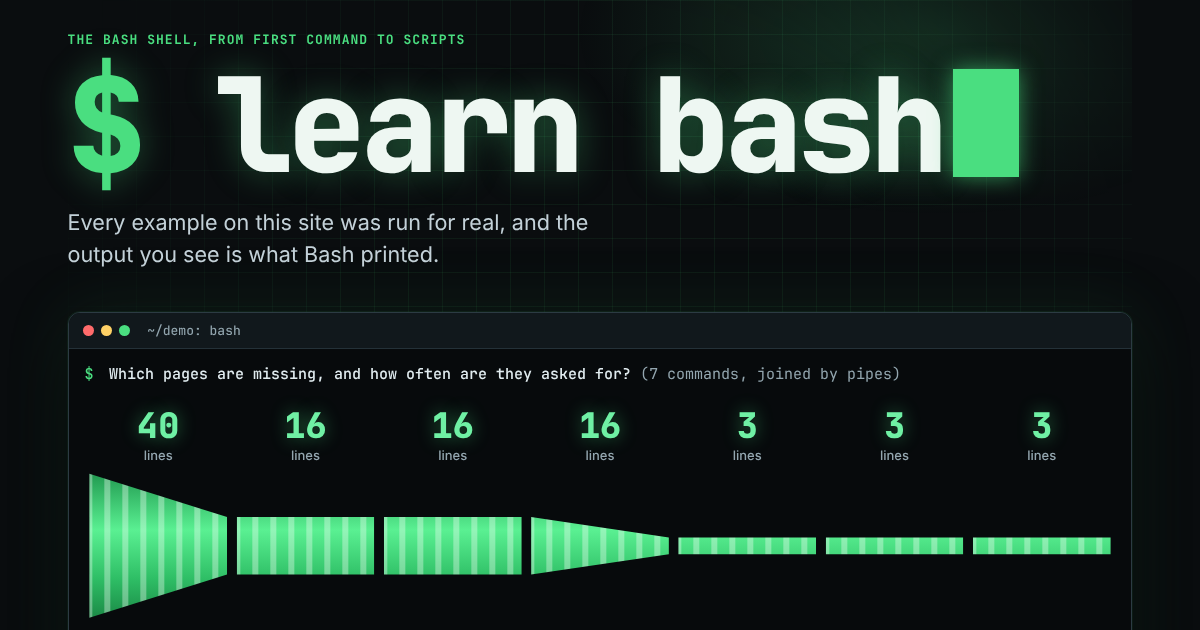
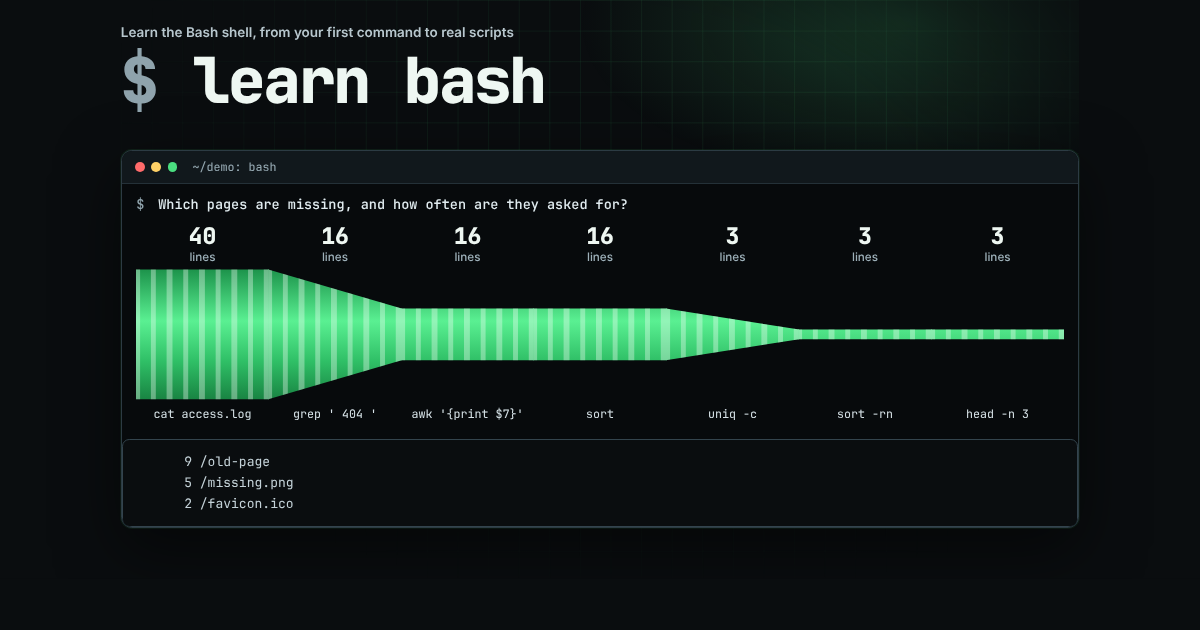
Landing round 2: the pipe is the hero (one continuous pipe at exact scale, dark poster with the header, rationed colour), print and zoom fixes, matching social card, site.json for absolute URLs, DESIGN-LOG
Claude-Session: https://claude.ai/code/session_01Sp4uVW5FB42KZBSPx1UGHC

diff --git a/index.html b/index.html
@@ -10,27 +10,30 @@
 <link rel="icon" href="favicon.svg" type="image/svg+xml">
 <link rel="stylesheet" href="styles.css">
 </head>
-<body>
+<body class="home">
 <a class="skip" href="#main">Skip to the content</a>
 <header class="mast">
-  <a class="brand" href="index.html"><span class="ps" aria-hidden="true">$</span> learn-bash<span class="cur" aria-hidden="true">_</span></a>
+  <a class="brand" href="index.html"><span class="ps" aria-hidden="true">$</span> learn-bash</a>
   <nav aria-label="Pages"><a href="basics.html">Basics</a><a href="commands.html">Commands</a><a href="scripting.html">Scripts</a><a href="advanced.html">Advanced</a><a href="explain.html">Explain</a></nav>
 </header>
 <main id="main">
 
 <section class="hero hero-dark" aria-labelledby="h1">
-  <p class="kicker">The Bash shell, from first command to scripts</p>
-  <h1 id="h1"><span class="ps" aria-hidden="true">$ </span>learn bash<span class="blk" aria-hidden="true"></span></h1>
-  <p class="lede">Every example on this site was run for real, and the output you see is what Bash printed.</p>
-  <p class="cta"><a class="btn" href="basics.html">Start with the basics</a><a class="btn ghost" href="explain.html">Explain a command</a></p>
+  <div class="herohead">
+    <div class="ht"><p class="kicker">Learn the Bash shell, from your first command to real scripts</p>
+    <h1 id="h1"><span class="ps" aria-hidden="true">$ </span>learn bash<span class="blk" aria-hidden="true"></span></h1></div>
+    <div class="hc"><p class="lede">Every example on this site was run for real, and the output you see is what Bash printed.</p>
+    <p class="cta"><a class="btn" href="basics.html">Start with the basics</a><a class="btn ghost" href="explain.html">Explain a command</a></p></div>
+  </div>
   <figure class="win">
     <div class="winbar" aria-hidden="true"><i></i><i></i><i></i><span>~/demo: bash</span></div>
-    <p class="winq"><span class="ps" aria-hidden="true">$</span> Which pages are missing, and how often are they asked for? <span class="muted">(7 commands, joined by pipes)</span></p>
-    <ol class="funnel" aria-label="The pipeline, stage by stage; the number is how many lines come out of each stage"><li class="fs" style="--a:120;--b:48"><span class="fn">40<small>lines</small></span><span class="fp" aria-hidden="true"></span><code class="fc">cat access.log</code></li><li class="fs" style="--a:48;--b:48"><span class="fn">16<small>lines</small></span><span class="fp" aria-hidden="true"></span><code class="fc">grep &#x27; 404 &#x27;</code></li><li class="fs" style="--a:48;--b:48"><span class="fn">16<small>lines</small></span><span class="fp" aria-hidden="true"></span><code class="fc">awk &#x27;{print $7}&#x27;</code></li><li class="fs" style="--a:48;--b:14"><span class="fn">16<small>lines</small></span><span class="fp" aria-hidden="true"></span><code class="fc">sort</code></li><li class="fs" style="--a:14;--b:14"><span class="fn">3<small>lines</small></span><span class="fp" aria-hidden="true"></span><code class="fc">uniq -c</code></li><li class="fs" style="--a:14;--b:14"><span class="fn">3<small>lines</small></span><span class="fp" aria-hidden="true"></span><code class="fc">sort -rn</code></li><li class="fs" style="--a:14;--b:14"><span class="fn">3<small>lines</small></span><span class="fp" aria-hidden="true"></span><code class="fc">head -n 3</code></li></ol>
+    <p class="winq"><span class="ps" aria-hidden="true">$</span> Which pages are missing, and how often are they asked for? <span class="muted">Seven small commands, one after another.</span></p>
+    <p class="key"><span aria-hidden="true">&#9654;</span> The pipe is as thick as the number of lines left after each command.</p>
+    <ol class="funnel" aria-label="The pipeline, stage by stage; the number is how many lines come out of each command"><li class="fs" style="--a:144.0;--b:144.0"><span class="fn">40<small>lines</small></span><span class="fp" aria-hidden="true"></span><code class="fc">cat access.log</code></li><li class="fs" style="--a:144.0;--b:57.6"><span class="fn">16<small>lines</small></span><span class="fp" aria-hidden="true"></span><code class="fc">grep &#x27; 404 &#x27;</code></li><li class="fs" style="--a:57.6;--b:57.6"><span class="fn">16<small>lines</small></span><span class="fp" aria-hidden="true"></span><code class="fc">awk &#x27;{print $7}&#x27;</code></li><li class="fs" style="--a:57.6;--b:57.6"><span class="fn">16<small>lines</small></span><span class="fp" aria-hidden="true"></span><code class="fc">sort</code></li><li class="fs" style="--a:57.6;--b:10.8"><span class="fn">3<small>lines</small></span><span class="fp" aria-hidden="true"></span><code class="fc">uniq -c</code></li><li class="fs" style="--a:10.8;--b:10.8"><span class="fn">3<small>lines</small></span><span class="fp" aria-hidden="true"></span><code class="fc">sort -rn</code></li><li class="fs" style="--a:10.8;--b:10.8"><span class="fn">3<small>lines</small></span><span class="fp" aria-hidden="true"></span><code class="fc">head -n 3</code></li></ol>
     <pre class="out final" aria-label="Final output of the pipeline"><code>      9 /old-page
       5 /missing.png
       2 /favicon.ico</code></pre>
-    <figcaption>The pipe gets thinner as each command throws lines away: 40 to 16 to 3 lines, measured by running every prefix of the pipeline on a sample log of 40 lines. <a class="more" href="scripting.html#example">See it explained, step by step</a></figcaption>
+    <p class="wincap">The pipe narrows where a command throws lines away: 40 to 16 to 3 lines, measured by running every prefix of the pipeline on a sample log of 40 lines. <a class="btn ghost small-btn" href="scripting.html#example">See it explained, step by step</a></p>
   </figure>
 </section>
 

diff --git a/styles.css b/styles.css
@@ -176,3 +176,53 @@ details.toc > ul a { display: inline-flex; align-items: center; min-height: 44px
 @media print { .hero-dark { background: #fff; box-shadow: none; } }
 
 .hero-dark a.btn { color: var(--on-accent); } .hero-dark a.btn.ghost { color: var(--accent); }
+
+/* ===== landing round 2: the pipe is the hero ===== */
+/* the header joins the dark band on the landing: one poster, no seam */
+.home .mast { background: #0a0d0f; box-shadow: 0 0 0 100vmax #0a0d0f; clip-path: inset(0 -100vmax); border-bottom: 0; --ink: #e9f2f5; --ink2: #bccbd2; --accent: #4ade80; }
+.home .mast nav a[aria-current="page"] { border-bottom-color: #e9f2f5; }
+.home .hero-dark { clip-path: inset(0 -100vmax); }
+/* saturated green is for the pipe and the primary action only */
+.hero-dark .kicker { color: #9db0b9; }
+.hero-dark h1 { font-size: clamp(2.1rem, 8.6vw, 5.2rem); text-shadow: none; white-space: normal; overflow-wrap: anywhere; margin-bottom: .6rem; }
+.hero-dark h1 .ps { color: #8fa3ac; } .hero-dark h1 .blk { background: #eef7f2; box-shadow: none; }
+.hero-dark .btn.ghost { border-color: #8fa3ac; color: #e9f2f5; } .hero-dark a.btn.ghost { color: #e9f2f5; }
+.hero-dark a:focus-visible, .hero-dark button:focus-visible { outline-color: #ffffff; }
+.hero-dark .btn { box-shadow: none; }
+.herohead { display: grid; gap: .2rem 2.4rem; align-items: end; }
+.herohead .lede { margin: 0 0 1rem; max-width: 36ch; font-size: clamp(1.05rem, 1.2vw + .75rem, 1.3rem); } .herohead .cta { margin: 0; }
+@media (min-width: 900px) { .herohead { grid-template-columns: minmax(0, 1.25fr) minmax(0, 1fr); } .herohead .lede { margin-top: 1.2rem; } }
+.win { margin-top: clamp(1rem, 2.6vw, 1.8rem); box-shadow: 0 24px 70px rgba(0, 0, 0, .5), 0 0 0 1px rgba(74, 222, 128, .10); }
+.winq { padding-top: .7rem; padding-bottom: .1rem; font-size: 15px; } .winq .ps { color: #8fa3ac; }
+.key { margin: 0; padding: 0 1rem .2rem; font: 600 14px/1.4 var(--sans); color: #c3d1d8; } .key span { color: #4ade80; font-size: 11px; margin-right: .3rem; }
+.fn { color: #eef7f2; text-shadow: none; } .fn small { color: #9db0b9; }
+.funnel { padding: .4rem 1rem .6rem; }
+.fp { filter: none; clip-path: polygon(calc(50% - var(--a) * .5px) 0, calc(50% + var(--a) * .5px) 0, calc(50% + var(--b) * .5px) 100%, calc(50% - var(--b) * .5px) 100%); }
+.fs { min-height: 3.4rem; } .fp { min-height: 3.4rem; }
+.wincap { margin: 0; padding: .7rem 1rem 1rem; font-size: 15px; color: #a9bac2; border-top: 1px solid #1c272d; display: flex; flex-wrap: wrap; align-items: center; gap: .5rem 1rem; }
+.small-btn { min-height: 44px; font-size: 14.5px; padding: 0 1rem; }
+@media (min-width: 900px) {
+  .funnel { padding: .6rem 1rem .8rem; }
+  .fs { grid-template-rows: auto 150px auto; padding: 0; margin: 0 -.5px; } .fp { min-height: 150px; }
+  .fp { clip-path: polygon(0 calc(50% - var(--a) * .5px), 100% calc(50% - var(--b) * .5px), 100% calc(50% + var(--b) * .5px), 0 calc(50% + var(--a) * .5px)); }
+  .fn { font-size: 1.6rem; } .fc { font-size: 13px; }
+  .win .final { padding: .6rem 1rem; }
+}
+@media (max-width: 899px) { .win .final { font-size: 13.5px; padding: .6rem 1rem; } .fn { font-size: 1.5rem; } }
+/* print: a plain page, the pipe in grey */
+@media print {
+  .hero-dark, .home .mast { background: #fff !important; box-shadow: none !important; clip-path: none !important; --ink: #000; --ink2: #222; --accent: #000; color: #000; }
+  .hero-dark h1, .hero-dark .lede, .hero-dark .kicker, .fn, .fn small, .fc, .winq, .key, .wincap, .win .final, .win .final code { color: #000 !important; text-shadow: none !important; }
+  .win { background: #fff !important; border: 1px solid #000; box-shadow: none !important; } .winbar { display: none; }
+  .fp { background: #bbb !important; animation: none !important; filter: none !important; } .hero-dark h1 .blk { background: #000; }
+  .hero-dark::before { display: none; } .hero-dark a.btn { color: #000 !important; border-color: #000 !important; background: #fff !important; }
+}
+/* round 2 tuning: one-line headline, a shorter pipe window on a phone */
+.hero-dark h1 { font-size: clamp(2.4rem, 11vw, 4.4rem); }
+@media (max-width: 899px) {
+  .fs, .fp { min-height: 2.8rem; } .fs { gap: 0 .9rem; } .fn { font-size: 1.35rem; } .fc { font-size: 13.5px; padding-bottom: .15rem; }
+  .winq .muted { display: none; } .winq { font-size: 14.5px; } .key { font-size: 13.5px; } .funnel { padding: .2rem 1rem .3rem; }
+  .win .final { padding: .5rem 1rem; } .wincap { padding: .6rem 1rem .8rem; font-size: 14.5px; }
+}
+.hero-dark .kicker { font: 600 15px/1.4 var(--sans); letter-spacing: 0; text-transform: none; color: #b8c7ce; margin: 0 0 .5rem; }
+.key { font-size: 15px; } .wincap { font-size: 15px; }

diff --git a/advanced.html b/advanced.html
@@ -10,10 +10,10 @@
 <link rel="icon" href="favicon.svg" type="image/svg+xml">
 <link rel="stylesheet" href="styles.css">
 </head>
-<body>
+<body class="">
 <a class="skip" href="#main">Skip to the content</a>
 <header class="mast">
-  <a class="brand" href="index.html"><span class="ps" aria-hidden="true">$</span> learn-bash<span class="cur" aria-hidden="true">_</span></a>
+  <a class="brand" href="index.html"><span class="ps" aria-hidden="true">$</span> learn-bash</a>
   <nav aria-label="Pages"><a href="basics.html">Basics</a><a href="commands.html">Commands</a><a href="scripting.html">Scripts</a><a href="advanced.html" aria-current="page">Advanced</a><a href="explain.html">Explain</a></nav>
 </header>
 <main id="main">

diff --git a/basics.html b/basics.html
@@ -10,10 +10,10 @@
 <link rel="icon" href="favicon.svg" type="image/svg+xml">
 <link rel="stylesheet" href="styles.css">
 </head>
-<body>
+<body class="">
 <a class="skip" href="#main">Skip to the content</a>
 <header class="mast">
-  <a class="brand" href="index.html"><span class="ps" aria-hidden="true">$</span> learn-bash<span class="cur" aria-hidden="true">_</span></a>
+  <a class="brand" href="index.html"><span class="ps" aria-hidden="true">$</span> learn-bash</a>
   <nav aria-label="Pages"><a href="basics.html" aria-current="page">Basics</a><a href="commands.html">Commands</a><a href="scripting.html">Scripts</a><a href="advanced.html">Advanced</a><a href="explain.html">Explain</a></nav>
 </header>
 <main id="main">

diff --git a/commands.html b/commands.html
@@ -10,10 +10,10 @@
 <link rel="icon" href="favicon.svg" type="image/svg+xml">
 <link rel="stylesheet" href="styles.css">
 </head>
-<body>
+<body class="">
 <a class="skip" href="#main">Skip to the content</a>
 <header class="mast">
-  <a class="brand" href="index.html"><span class="ps" aria-hidden="true">$</span> learn-bash<span class="cur" aria-hidden="true">_</span></a>
+  <a class="brand" href="index.html"><span class="ps" aria-hidden="true">$</span> learn-bash</a>
   <nav aria-label="Pages"><a href="basics.html">Basics</a><a href="commands.html" aria-current="page">Commands</a><a href="scripting.html">Scripts</a><a href="advanced.html">Advanced</a><a href="explain.html">Explain</a></nav>
 </header>
 <main id="main">

diff --git a/explain.html b/explain.html
@@ -10,10 +10,10 @@
 <link rel="icon" href="favicon.svg" type="image/svg+xml">
 <link rel="stylesheet" href="styles.css">
 </head>
-<body>
+<body class="">
 <a class="skip" href="#main">Skip to the content</a>
 <header class="mast">
-  <a class="brand" href="index.html"><span class="ps" aria-hidden="true">$</span> learn-bash<span class="cur" aria-hidden="true">_</span></a>
+  <a class="brand" href="index.html"><span class="ps" aria-hidden="true">$</span> learn-bash</a>
   <nav aria-label="Pages"><a href="basics.html">Basics</a><a href="commands.html">Commands</a><a href="scripting.html">Scripts</a><a href="advanced.html">Advanced</a><a href="explain.html" aria-current="page">Explain</a></nav>
 </header>
 <main id="main">

diff --git a/scripting.html b/scripting.html
@@ -10,10 +10,10 @@
 <link rel="icon" href="favicon.svg" type="image/svg+xml">
 <link rel="stylesheet" href="styles.css">
 </head>
-<body>
+<body class="">
 <a class="skip" href="#main">Skip to the content</a>
 <header class="mast">
-  <a class="brand" href="index.html"><span class="ps" aria-hidden="true">$</span> learn-bash<span class="cur" aria-hidden="true">_</span></a>
+  <a class="brand" href="index.html"><span class="ps" aria-hidden="true">$</span> learn-bash</a>
   <nav aria-label="Pages"><a href="basics.html">Basics</a><a href="commands.html">Commands</a><a href="scripting.html" aria-current="page">Scripts</a><a href="advanced.html">Advanced</a><a href="explain.html">Explain</a></nav>
 </header>
 <main id="main">

diff --git a/resources.html b/resources.html
@@ -10,10 +10,10 @@
 <link rel="icon" href="favicon.svg" type="image/svg+xml">
 <link rel="stylesheet" href="styles.css">
 </head>
-<body>
+<body class="">
 <a class="skip" href="#main">Skip to the content</a>
 <header class="mast">
-  <a class="brand" href="index.html"><span class="ps" aria-hidden="true">$</span> learn-bash<span class="cur" aria-hidden="true">_</span></a>
+  <a class="brand" href="index.html"><span class="ps" aria-hidden="true">$</span> learn-bash</a>
   <nav aria-label="Pages"><a href="basics.html">Basics</a><a href="commands.html">Commands</a><a href="scripting.html">Scripts</a><a href="advanced.html">Advanced</a><a href="explain.html">Explain</a></nav>
 </header>
 <main id="main">

diff --git a/scripts/build.py b/scripts/build.py
@@ -24,6 +24,8 @@ commands, groups = CM["commands"], {g["id"]: g for g in CM["groups"]}
 pages = {p["id"]: p for p in LS["pages"]}
 BASH = OUTS["bash"].replace("GNU bash, version ", "Bash ").split("(")[0]
 REPO = "https://github.com/SolutionsAsService/LearnBash"
+_site = ROOT / "data" / "site.json"
+SITE_URL = (json.loads(_site.read_text(encoding="utf-8")).get("url", "").rstrip("/") if _site.exists() else "")
 
 MARKS = {
     "reads": ("Only reads", "Does not change your files or the system. It can still change the current shell session (cd, export and alias do)."),
@@ -76,14 +78,14 @@ def head(title, desc, page, og_image=None):
 <meta name="color-scheme" content="dark light">
 <title>{e(title)}</title>
 <meta name="description" content="{e(desc)}">
-<meta property="og:title" content="{e(title)}"><meta property="og:description" content="{e(desc)}"><meta property="og:type" content="website">{(f'<meta property="og:image" content="{og_image}"><meta name="twitter:card" content="summary_large_image"><meta name="twitter:image" content="{og_image}">' if og_image else "")}
+<meta property="og:title" content="{e(title)}"><meta property="og:description" content="{e(desc)}"><meta property="og:type" content="website">{(f'<meta property="og:image" content="{(SITE_URL + "/" if SITE_URL else "") + og_image}"><meta name="twitter:card" content="summary_large_image"><meta name="twitter:image" content="{(SITE_URL + "/" if SITE_URL else "") + og_image}">' if og_image else "")}{(f'<meta property="og:url" content="{SITE_URL}/{page}"><link rel="canonical" href="{SITE_URL}/{page}">' if SITE_URL else "")}
 <link rel="icon" href="favicon.svg" type="image/svg+xml">
 <link rel="stylesheet" href="styles.css">
 </head>
-<body>
+<body class="{'home' if page == 'index.html' else ''}">
 <a class="skip" href="#main">Skip to the content</a>
 <header class="mast">
-  <a class="brand" href="index.html"><span class="ps" aria-hidden="true">$</span> learn-bash<span class="cur" aria-hidden="true">_</span></a>
+  <a class="brand" href="index.html"><span class="ps" aria-hidden="true">$</span> learn-bash</a>
   <nav aria-label="Pages">{nav}</nav>
 </header>
 <main id="main">
@@ -121,16 +123,16 @@ def term(code, run=True, note=None, status_ok=True):
 
 
 def funnel():
-    """The pipeline drawn as a pipe: each stage's thickness is the number of lines still flowing through it."""
+    """The pipeline drawn as one pipe at an exact scale (3.6 px per line). Each segment runs from the number of lines that
+    came into the command to the number it let out, so the pipe narrows at the commands that throw lines away."""
     stages, counts = PL["stages"], OUTS["pipeline"]["counts"]
-    top = counts[0]
-    size = lambda c: max(14, round(120 * c / top))
+    PX = 3.6
     items = []
     for i, st in enumerate(stages):
-        a_ = size(counts[i]); b_ = size(counts[i + 1]) if i + 1 < len(stages) else a_
-        items.append(f'<li class="fs" style="--a:{a_};--b:{b_}"><span class="fn">{counts[i]}<small>line{"" if counts[i] == 1 else "s"}</small></span>'
+        into = counts[i - 1] if i > 0 else counts[0]
+        items.append(f'<li class="fs" style="--a:{round(into * PX, 1)};--b:{round(counts[i] * PX, 1)}"><span class="fn">{counts[i]}<small>line{"" if counts[i] == 1 else "s"}</small></span>'
                      f'<span class="fp" aria-hidden="true"></span><code class="fc">{e(st)}</code></li>')
-    return f'<ol class="funnel" aria-label="The pipeline, stage by stage; the number is how many lines come out of each stage">{"".join(items)}</ol>'
+    return f'<ol class="funnel" aria-label="The pipeline, stage by stage; the number is how many lines come out of each command">{"".join(items)}</ol>'
 
 
 def index():
@@ -146,16 +148,19 @@ def index():
     q = PL["question"]
     return head("Learn Bash: every output is real", f"Learn the Bash shell with {N_PRINTED} examples that were actually run, a command reference marked by what each command can do to your files, and a tool that explains a command line.", "index.html", "social.png") + f'''
 <section class="hero hero-dark" aria-labelledby="h1">
-  <p class="kicker">The Bash shell, from first command to scripts</p>
-  <h1 id="h1"><span class="ps" aria-hidden="true">$ </span>learn bash<span class="blk" aria-hidden="true"></span></h1>
-  <p class="lede">Every example on this site was run for real, and the output you see is what Bash printed.</p>
-  <p class="cta"><a class="btn" href="basics.html">Start with the basics</a><a class="btn ghost" href="explain.html">Explain a command</a></p>
+  <div class="herohead">
+    <div class="ht"><p class="kicker">Learn the Bash shell, from your first command to real scripts</p>
+    <h1 id="h1"><span class="ps" aria-hidden="true">$ </span>learn bash<span class="blk" aria-hidden="true"></span></h1></div>
+    <div class="hc"><p class="lede">Every example on this site was run for real, and the output you see is what Bash printed.</p>
+    <p class="cta"><a class="btn" href="basics.html">Start with the basics</a><a class="btn ghost" href="explain.html">Explain a command</a></p></div>
+  </div>
   <figure class="win">
     <div class="winbar" aria-hidden="true"><i></i><i></i><i></i><span>~/demo: bash</span></div>
-    <p class="winq"><span class="ps" aria-hidden="true">$</span> {e(q)} <span class="muted">({n_stage} commands, joined by pipes)</span></p>
+    <p class="winq"><span class="ps" aria-hidden="true">$</span> {e(q)} <span class="muted">Seven small commands, one after another.</span></p>
+    <p class="key"><span aria-hidden="true">&#9654;</span> The pipe is as thick as the number of lines left after each command.</p>
     {funnel()}
     <pre class="out final" aria-label="Final output of the pipeline"><code>{e(OUTS["pipeline"]["final"])}</code></pre>
-    <figcaption>The pipe gets thinner as each command throws lines away: {" to ".join(str(c) for c in dict.fromkeys(OUTS["pipeline"]["counts"]))} lines, measured by running every prefix of the pipeline on a sample log of {total} lines. <a class="more" href="scripting.html#example">See it explained, step by step</a></figcaption>
+    <p class="wincap">The pipe narrows where a command throws lines away: {" to ".join(str(c) for c in dict.fromkeys(OUTS["pipeline"]["counts"]))} lines, measured by running every prefix of the pipeline on a sample log of {total} lines. <a class="btn ghost small-btn" href="scripting.html#example">See it explained, step by step</a></p>
   </figure>
 </section>
 

diff --git a/panel/R2/cairo.md b/panel/R2/cairo.md
@@ -1,0 +1,48 @@
+# R2 Measurement seat: Cairo (Evidence). Landing hero
+Method: run in Chromium (playwright), file:// build of /home/user/learnbash. No site file edited.
+
+## Measurements
+| # | Check | Result | Verdict |
+|---|---|---|---|
+| 1a | check_floor.py | 360/390/430: 12/12 hold, PASS | PASS |
+| 1b | measure.py contrast preset, 360/390/430/1280 | fails: [] at all four | PASS |
+| 2a | Contrast, dark scheme, every hero+header text node | min 7.10 (window title ~/demo: bash); next 7.10-7.86 (small "lines", "(7 commands...)"); kicker 11.19, h1 17.84, lede 12.47, primary btn 9.78, ghost btn 11.19, counts 13.87, commands 15.02, question 16.5, final output 12.58, caption 9.92, caption link 11.39; header brand 14.97, nav 10.07 | PASS |
+| 2b | Contrast, light scheme | Hero is pinned dark (.hero-dark), numbers identical to 2a. Header follows scheme: brand 16.65, nav 9.63, "$"/"_" accent 5.07 (10,122,64 on 245,248,246) | PASS (lowest 5.07) |
+| 2c | Focus rings (keyboard Tab) | Hero: outline 3px solid #4ade80, offset 3px on #0a0d0f = 11.19:1 vs bg. Primary button: ring colour equals its fill (#4ade80) but the 3px offset leaves a dark gap, so ring still reads. Header light: 3px #0a7a40 on #f5f8f6 = 5.07 | PASS |
+| 3a | h1 top y / primary btn top / pipe window top / pipe bottom / fraction of pipe above fold (pipe = 7 .fp boxes) | 360x640: 171 / 329 / 462 / 1099, 0.08. 390x844: 171 / 335 / 467 / 1096, 0.49. 430x932: 171 / 314 / 447 / 1076, 0.71. 768x1024: 117 / 311 / 389 / 996, 1.00 (pipe top 503). 1280x800: 134 / 365 / 455 / 768, 1.00 (pipe 608-768). 1440x900 and 1920x1080: same as 1280 (pipe 608-768) | Primary button above fold at every size (max bottom 413). Mobile pipe mostly below fold at 360 (8%) |
+| 3b | Page overflow (scrollWidth - innerWidth) | 0 at all 7 viewports and at 320/360/390/768/1024/1440/2560 | PASS |
+| 3c | h1 wrap/clip, widths 320/360/390/768/1024/1440/2560 | 1 line everywhere; cursor right edge inside viewport (309/337/364/697/924/1139/1699). Font 40px at 320 (clamp floor): h1 content overflows its own box by 6px at 320 only, but stays inside the viewport (no clip) | PASS (320 marginal) |
+| 3d | Text zoom emulation | Root font 32px (=200% text size) at 360 wide: h1 80px, cursor right edge 618 > 360, page overflow 258px, h1 clipped. At 720 wide: fits. Reflow-style 200% (css viewport 180 and 195): cursor right 309 > 180/195, overflow 129 / 114px, h1 clipped (floor 2.5rem=40px cannot shrink). 640 css width (200% of 1280): fits | FAIL at 200% on phone widths |
+| 4a | Printed counts vs outputs.json pipeline.counts [40,16,16,16,3,3,3] | All 7 equal | PASS |
+| 4b | --a/--b == max(14, round(120*c/40)) and next stage | All 7 segments match (120/48, 48/48, 48/48, 48/14, 14/14, 14/14, 14/14) | PASS (formula); see F1 for the formula itself |
+| 4c | Rendered pipe thickness ratio vs counts (clip polygon: half-width = a*0.6px) | Thickness px: 144, 57.6, 57.6, 57.6, 16.8, 16.8, 16.8. 16:40 drawn 0.400 vs data 0.400 (exact). 3:40 drawn 0.117 vs data 0.075 | FAIL for the 3-line stages (lie factor 1.56) |
+| 4d | Final output vs pipeline.final | Byte-identical (6 spaces + "9 /old-page", "5 /missing.png", "2 /favicon.ico") | PASS |
+| 4e | Caption "40 to 16 to 3" | Generated from dict.fromkeys(counts) in build.py:158 = 40, 16, 3; sample size 40 = counts[0] | PASS |
+| 5a | prefers-reduced-motion: reduce | all 7 .fp animation: none; .blk (hero cursor) none; header .cur none. Without reduce: flowv x7, blink | PASS |
+| 5b | Frames over 3s, long tasks, CPU | Animated 390: 180 frames (60.0 fps), 0 long tasks, main-thread TaskDuration 0.158s per 3s (5.3%), style recalc 0.031s; static: 182 frames, 0.034s (1.1%). Animated 1280: 181 frames, 0.175s (5.8%) vs static 0.038s. Layout 0.000 in both. Headless, no GPU, so paint cost is not isolated | PASS (+4.5 pts of one core for the animation) |
+| 5c | JS disabled | 0 script tags; h1 and 7 pipe segments present; screenshot rendered | PASS |
+| 5d | Print (emulate print, PDF, default no background graphics) | Hero text is extracted fine but is painted light on white because only .hero-dark background is reset: h1 #eef7f2 on white 1.09:1, lede 1.56, commands 1.32, counts 1.43, question 1.20, final output 1.55, caption 2.00, kicker/ghost button/link #4ade80 1.74. Pipe invisible (background gradient dropped). With backgrounds printed it keeps the dark window | FAIL |
+| 6a | social.png | 1200x630, 187,957 bytes (183.5 KB) | PASS |
+| 6b | Meta tags | og:title, og:description, og:type, og:image="social.png", twitter:card=summary_large_image, twitter:image="social.png" all present. No og:url, no canonical | PARTIAL |
+| 6c | Card content vs page | Same "$ learn bash" headline with cursor, same 7 counts, same pipe shapes (viewed). Commands under the pipe and the final output are cropped off by the 630px height, so the card shows counts and a pipe without the commands that name each stage | NOTE |
+| 6d | og:image relative URL | Relative values are not resolved by Facebook, LinkedIn, Slack, X, Discord or iMessage crawlers; they require an absolute URL. No site origin is in the build, so the card will not show | FAIL |
+| 7 | Weight | index.html 7,336 B (2,463 gz); styles.css 21,245 B (5,391 gz); social.png 187,957 B; external requests: none (0 http/url()/@import in css, 0 http in index.html, no script, one local favicon.svg) | PASS |
+
+## Findings
+
+BLOCKER
+1. None found by measurement.
+
+MAJOR
+1. The pipe overstates the final stages. The floor `max(14, round(120*c/40))` (build.py:127) draws 3 lines at 16.8px against 144px for 40: ratio 0.117, true ratio 0.075, lie factor 1.56. Nothing on the page says the thickness is floored, and the caption claims "thickness = lines still flowing" in spirit ("the pipe gets thinner as each command throws lines away"). Fix: either drop the floor to 0.6*120*3/40 = 10.8px (still a visible 10px bar at 1x), or keep it and add to the caption "(thickness drawn to scale, minimum 14 units so 3 lines stay visible)". The first is a one-line change (floor 14 -> 9).
+2. The taper is drawn on the wrong command. Segment k uses --a = its own count and --b = the next count, so `cat access.log` (40 out) is drawn narrowing to 16 and `sort` (16 out) narrowing to 3 (data: cat 40, grep 16, awk 16, sort 16, uniq -c 3). The reader sees cat and sort throwing lines away; it is grep and uniq -c that do. The caption "thinner as each command throws lines away" is therefore pinned to the wrong labels. Fix: make each segment taper INTO its own count (--a = previous count, --b = own count, first segment flat at 40), so grep and uniq -c show the narrowing; the numbers above stay unchanged.
+3. Print is unreadable. With default print settings (backgrounds off) the hero keeps light-on-dark colours: h1 1.09:1, lede 1.56:1, commands 1.32:1, question 1.20:1, final output 1.55:1, pipe invisible. The only print rule is `.hero-dark{background:#fff;box-shadow:none}` (styles.css:176). Fix: in @media print set `.hero-dark, .hero-dark *, .win {color:#000 !important; background:#fff !important; text-shadow:none; filter:none}`, give `.fp` a `background:#000` (print-color-adjust: exact) so thickness survives, and hide `.blk`.
+4. Text zoom 200% breaks the headline on phones. h1 is nowrap and its floor is 2.5rem, so with root font 32px at 360 wide the cursor ends at x=618 (258px horizontal overflow); with a 180-195 CSS px reflow viewport the overflow is 114-129px. Fix: drop nowrap below 760px and let it wrap at the space ("$ learn" / "bash"), or use `font-size: clamp(1.6rem, min(12.2vw, 9rem), 8.2rem)` plus `overflow-wrap:anywhere`; re-measure scrollWidth-innerWidth = 0 at root font 32px/360.
+5. og:image and twitter:image are relative ("social.png"). Real crawlers need an absolute https URL; as built the card will not render when the page is shared. Fix: build.py takes a SITE_URL constant and emits `https://<origin>/social.png`, plus og:url and rel=canonical.
+
+MINOR
+6. At 360x640 only 8% of the pipe is above the fold (49% at 390x844, 71% at 430x932): the page's evidence is below the fold on the smallest phones, though headline, lede and both buttons (bottom 377) are above it. Fix: reduce `.fs` min-height 4.4rem to 3.6rem at max-width 400px, which would raise the visible share; remeasure.
+7. At 320 wide the h1 content overflows its own box by 6px (scroll 6, no viewport clip). Fix: lower the clamp floor to 2.2rem or letter-spacing -.05em.
+8. The social card crops away the commands and the final output, so the printed counts have no stage names. Fix: show the 7 command names under the pipe in the card (re-render at 1200x630 with the window top moved up ~80px) so the card is as checkable as the page.
+9. Animation costs about 4.5 points of one core (0.158s vs 0.034s per 3s, 60 fps held, no long tasks, layout 0). Animating background-position under clip-path plus a drop-shadow filter forces a repaint of 7 elements each frame (style recalc 0.031s only in the animated runs). Acceptable now; if battery matters, pause with `animation-play-state: paused` once the hero is off screen (IntersectionObserver or `animation-timeline`) or after 6s.
+10. Primary-button focus ring has the same colour as the button fill (#4ade80); it is visible only through the 3px offset gap (ring vs page 11.19:1). Fix if desired: `.hero-dark .btn:focus-visible{outline-color:#fff}`.

diff --git a/DESIGN-LOG.md b/DESIGN-LOG.md
@@ -47,3 +47,43 @@ S1 not met (no R2). S2 not met (the changes were judged by measurement and a rea
 - External links were not checked from the build environment.
 - No inclusion seat; not shown on a real phone (copying a command, the keyboard over the explainer result, text zoom).
 - Not done: `2>&1` ordering in the explainer, rating every flag, a copy button on terminal blocks.
+
+---
+
+# Round 2: the landing (graded C by the owner)
+
+**Why.** The owner graded round 1 **C**: correct and well built, but "no bold landing graphic, nothing that stands out". The first screen was a headline, two buttons and a row of small boxes. Run type: **Landing** (only the home page's first screen and what sits under it change; the other pages, palette and type are frozen, the landing may push them), bounded to one panel round, with the social card regenerated to match.
+
+## Decisions
+**D7 The pipe is the hero.** The site's real idea is that you can *see* what each command does, so the first screen shows a real seven-command pipeline as one continuous pipe whose thickness is the measured number of lines still flowing through it, at an exact scale of 3.6 px per line (40 lines is 144 px, 3 lines is 10.8 px, the true ratio), with the real final output beneath it. It sits in a terminal window under an oversized `$ learn bash` headline with a block cursor. D8 **The poster is dark in both colour schemes,** and on the landing the header joins the dark band, so the first screen is one object and not a light bar over a black block. D9 **Green is rationed:** saturated green is only on the pipe and the primary button; the headline, counts and kicker are white and grey. D10 **The pipe narrows where lines are thrown away:** each segment runs from the lines that came into the command to the lines it let out, so `grep` and `uniq -c` (the real reducers) taper, and `cat`, `sort` and `awk` do not.
+
+## Panel R2 (3 seats; verdicts in `panel/R2/`)
+Arnheim (visual force and balance), Krug (the five-second test), Cairo (first-screen measurement in both colour schemes).
+
+| Seat(s): finding | Resolution |
+|---|---|
+| Arnheim (biggest change): the headline outweighed the pipe, which is the idea; make the pipe the hero, headline about 60%, one continuous pipe, everything above the fold | ADAPT: headline reduced (clamp 2.4rem to 4.4rem) and set beside the lede and buttons on desktop; seven segments joined with no gaps; the pipe, its commands and the real output now all fit above the fold at 1280 x 800 and 1440 x 900 (output ends at y=723) |
+| Arnheim: green on every element ranks nothing; the glow softens the pipe | ADAPT: green only on the pipe and the primary button; glow removed from text and the pipe |
+| Arnheim / Cairo: the 3-line stage was drawn at 0.117 of the 40-line height against a true 0.075 (a lie factor of 1.56), and the taper was on the wrong commands | ADAPT: exact scale, no minimum; thickness 144 to 10.8 px; each segment tapers from its input to its output. Verified by reading the rendered custom properties |
+| Arnheim: the light header against the black hero is a hard seam | ADAPT: on the landing the header sits on the dark band |
+| Arnheim: black-and-green terminal frame is the template; only the thickness-as-count pipe is not | ACCEPTED: the frame is kept because the site is about the terminal; the pipe is the distinction and is now the largest element |
+| Krug MAJOR: on a phone the demo ran 913 px and the first card sat at 1.8 screens | PARTLY ADAPTED: the funnel rows are shorter and the jargon line is hidden on a phone; the demo is 735 px and the first card is at y=1272 (about 1.5 screens). The demo stays as the second screen, as Krug advised |
+| Krug MAJOR: the pipe does not explain itself; the caption is off the first screen; "(7 commands, joined by pipes)" is jargon | ADAPT: a one-line key above the pipe ("as thick as the number of lines left after each command"), plain wording ("Seven small commands, one after another"), and "See it explained, step by step" is now a visible button |
+| Krug: two cursors with two spellings; the kicker (the only "who is it for" line) is too small | ADAPT: one cursor (the brand mark is static); the kicker is a 15 px sentence: "Learn the Bash shell, from your first command to real scripts" |
+| Cairo MAJOR: print unreadable (h1 1.09:1, pipe invisible) | ADAPT: a print stylesheet: black on white, the pipe in grey; verified in print emulation |
+| Cairo MAJOR: 200% text zoom clipped the no-wrap headline | ADAPT: the headline may wrap; verified no overflow at 320, 360, 390, 768, 1024, 1440, 2560 and at 200% text size on a 360 px viewport |
+| Cairo MAJOR: og:image / twitter:image relative (do not work for crawlers); no og:url or canonical | ADAPT: `data/site.json` holds the deployed URL; when it is set, og:image, twitter:image, og:url and a canonical link become absolute. It is empty now because no live address is known; set it after deploying |
+| Cairo MINOR: primary-button focus ring the same colour as its fill; 15 px body floor | ADAPT: white focus rings on the hero; kicker, key and caption raised to 15 px (the floor caught them) |
+| Cairo / Arnheim: the social card crops command names, the output and has no wordmark | ADAPT: regenerated with the headline, the whole pipe, the command names and the real output |
+| Arnheim: streak animation unjudged (stills only); Cairo: 8% of the pipe above the fold at 360 x 640 | NOT CHANGED: the animation measured 60 fps with 0 long tasks and stops under reduced motion; a 640 px tall phone shows only the top of the pipe |
+
+## Measured (after the fixes)
+Mobile Floor passes on all seven pages. Contrast preset n:0 on the home page at 360, 390, 430 and 1280. The pipe's custom properties: 144, 57.6 and 10.8 px for 40, 16 and 3 lines. Headline: one line at every width tested, no page overflow, no overflow at 200% text size. Print: black on white. First screen at 1280 x 800: h1 at y=172, primary button at 204, pipe at 377 to 626, real output at 626 to 723. Social card 1200 x 630 with a dark background to the edge.
+
+## Stop test
+S1 not met (no R3). S2 not met (round 2's changes were judged by measurement, not re-judged by the panel). **Reported as incomplete under the one-round bound.**
+
+## Open
+- Not shown on a real phone: thumb reach of the primary button (centre about a third of the way down), scroll feel past the pipe, the animation on a low-end device, sunlight legibility of the dark band.
+- The deployed URL is not set, so og:image is relative until `data/site.json` is filled in.
+- At 360 x 640 only the top of the pipe is above the fold.

diff --git a/README.md b/README.md
@@ -20,7 +20,7 @@ python3 scripts/run_examples.py --check   # exit 1 if a recorded output differs 
 node scripts/check-explain.js       # the explainer judges 75 command lines as expected, and refuses malformed ones
 ```
 
-Data lives in `data/` (`commands.json`, `lessons.json`, `pipeline.json`). The sample files the examples run against are in `scripts/fixture.py`; dates are fixed so listings are reproducible. Outputs were produced with GNU bash 5.2 on Linux (GNU coreutils, mawk). macOS and BSD tools differ in some flags, and the pages say where it matters.
+Data lives in `data/` (`commands.json`, `lessons.json`, `pipeline.json`, `site.json`). After deploying, put the live address in `data/site.json` (`{ "url": "https://..." }`) and rebuild, so the social card and canonical links become absolute. The sample files the examples run against are in `scripts/fixture.py`; dates are fixed so listings are reproducible. Outputs were produced with GNU bash 5.2 on Linux (GNU coreutils, mawk). macOS and BSD tools differ in some flags, and the pages say where it matters.
 
 ## Contributing
 
